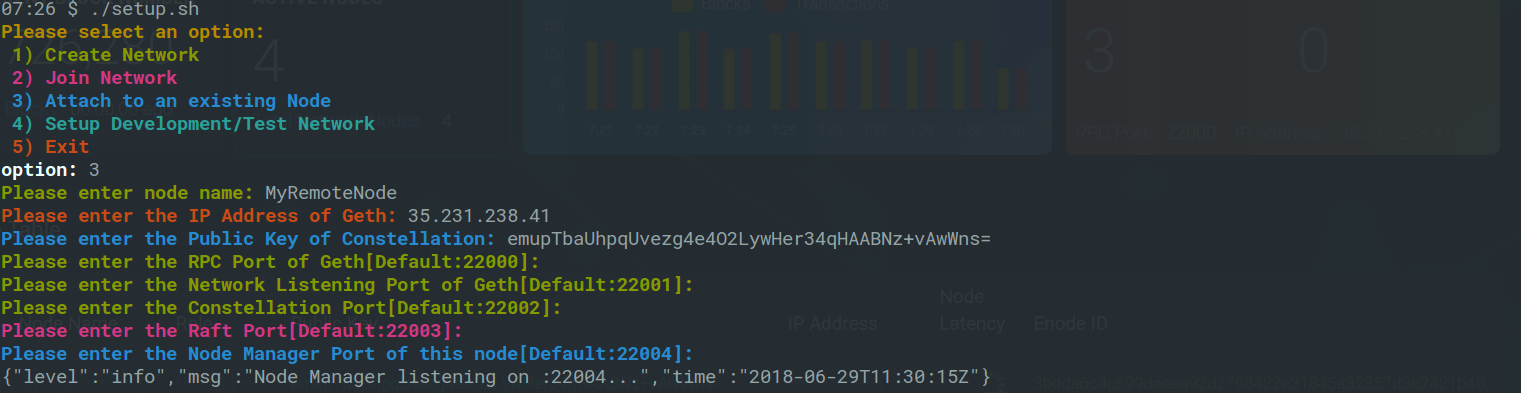
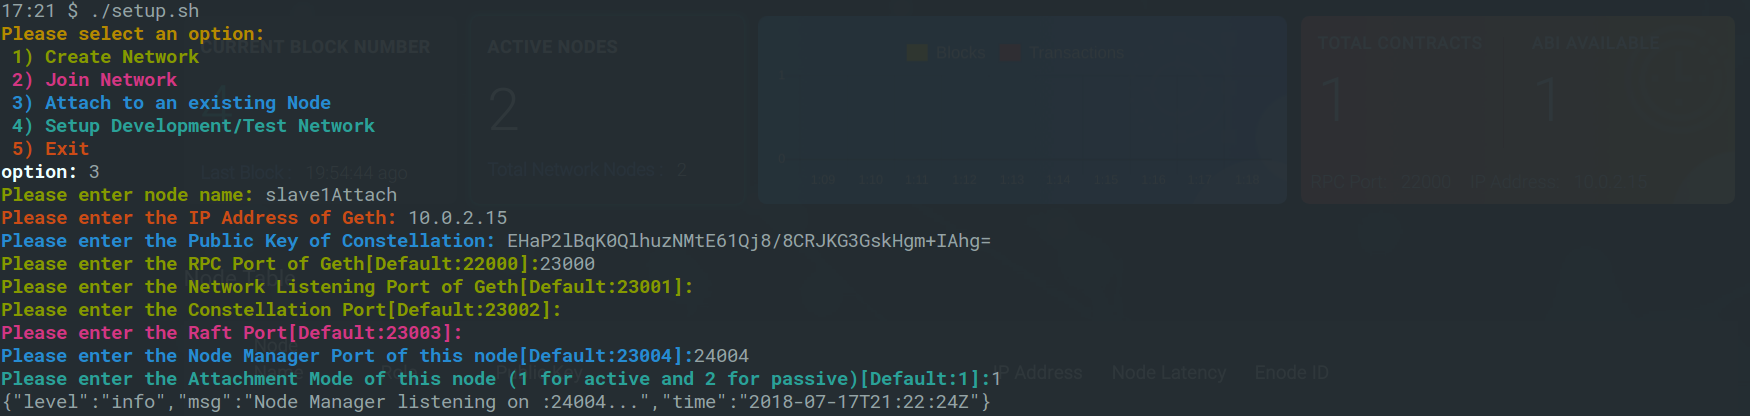
Updated to V2.3

Changed region(s): [[0.0, 0.0, 0.6489, 1.0]]

diff --git a/README.md b/README.md
@@ -1,4 +1,4 @@
-# Quorum Maker V2.2
+# Quorum Maker V2.3
 
 Synechron's Quorum Maker is a tool that allows users to spin up nodes in a Quorum network. Manually editing configuration files and creating nodes is a slow and error-prone process. Quorum Maker can create any number of nodes of various configurations dynamically with reduced user input. This provides a wizard-like interface with a series of questions to guide the user when creating nodes. Quorum Maker can create nodes to:
 
@@ -18,13 +18,13 @@ Synechron's Quorum Maker is a tool that allows users to spin up nodes in a Quoru
 
 ## Features at a glance
 
-Quorum Maker v2.2 is an upgrade on v1.0 released by Synechron in October 2017. This upgrade, and future expected upgrades, aim to support application developers in the pursuit of production readiness for the growing number of applications built on top of the Quorum platform.
+Quorum Maker v2.3 is an upgrade on v1.0 released by Synechron in October 2017. This upgrade, and future expected upgrades, aim to support application developers in the pursuit of production readiness for the growing number of applications built on top of the Quorum platform.
 
-| Features | V 1.0 | V 2.2 |
+| Features | V 1.0 | V 2.3 |
 | ------ | ------ |-----|
 | Create Network | ![Yes](img/tick.png "Available") | ![Yes](img/tick.png "Available") |
 |Join Network | ![No](img/cross.png "Not Available")  | ![Yes](img/tick.png "Available")|
-|Attach to existing Quorum Node	 	  | ![No](img/cross.png "Not Available") | ![Exp](img/exp.png "Experimental") |
+|Attach to existing Quorum Node	 	  | ![No](img/cross.png "Not Available") | ![Yes](img/tick.png "Available")|
 |Quick Setup with Docker	 	  | ![Yes](img/tick.png "Available") | ![Yes](img/tick.png "Available") |
 |Quick network with Docker Compose	 	  | ![Yes](img/tick.png "Available") | ![Yes](img/tick.png "Available") |
 |Quorum Chain Consensus	 	  | ![Yes](img/tick.png "Available") | ![No](img/cross.png "Not Available") |
@@ -38,6 +38,7 @@ Quorum Maker v2.2 is an upgrade on v1.0 released by Synechron in October 2017. T
 |Smart Contract Deployer	 	  | ![No](img/cross.png "Not Available") | ![Yes](img/tick.png "Available") |
 |Smart Contract Explorer	 	  | ![No](img/cross.png "Not Available") | ![Yes](img/tick.png "Available") |
 |Transaction Parameters View	 	  | ![No](img/cross.png "Not Available") | ![Yes](img/tick.png "Available") |
+|Auto ABI upload for Truffle Deployments | ![No](img/cross.png "Not Available") | ![Yes](img/tick.png "Available") |
 |Email Notification	 	  | ![No](img/cross.png "Not Available") | ![Yes](img/tick.png "Available") |
 |Online Logs View	 	  | ![No](img/cross.png "Not Available") | ![Yes](img/tick.png "Available") |
 |Restful API	 	  | ![No](img/cross.png "Not Available") | ![Yes](img/tick.png "Available") |
@@ -215,10 +216,32 @@ After the required docker images are downloaded, Quorum Maker will present with 
 `Please enter the Constellation Port[Default:22002]:`
 `Please enter the Raft Port[Default:22003]:`
 `Please enter the Node Manager Port of this node[Default:22004]:`
+`Please enter the Attachment Mode of this node (1 for active and 2 for passive)[Default:1]:`1
 
-Except Node Manager port, all other details are of existing node. Please make sure to use an available port for Node Manager to avoid port conflicts.
+
+> Note: Except Node Manager port, all other details are of existing node. Please make sure to use an available port for Node Manager to avoid port conflicts.
 
 ![Screenshot 13](img/screenshot13.png)
+
+### Active Attachment
+
+Active Attachment allows you to migrate your existing nodes that was not created with Quorum Maker to a fully Quorum Maker equivalent. At the core, Quorum Maker uses Network Map Contract to share the details of each participant node. Due to security and transperancy reasons, this is a public smart contract. When attaching to a node that was not created using Quorum Maker, it will deploy Network Map Contract. This is an active participation in the network. Quorum Maker can also detect an existing instance of Network Map Contract and only register the node, instead of deploying a new instance. This allows Quorum Maker to act as a native installation once all nodes have Quorum Maker attached. 
+
+### Passive Attachment
+
+If you do not wish Quorum Maker to deploy a public contract but still want to use some of the features of Quorum Maker, you can attach in **Passive** mode. Most of the features except **Node Explorer** work as expected in this mode.
+
+### Configure Log paths and Genesis
+
+You can point to the location of your existing node's Geth and Constellation log directories and Quorum Maker can make them accessible through it's UI. When you access the UI after attaching to an exisisting Quorum node, a notification icon appears on the top right corner. Click on this to open up the window to enter the location of the log directory. 
+
+> Note: Due to browser security restrictions, **File Chooser** doesn't pickup the fully qualified path of a directory. Please enter this manually.
+
+Quorum Maker attached to an existing node can even approve join requests. To enable this feature choose the **Genesis** file of this network. 
+
+After you **SUBMIT** changes, please restart Quorum Maker Node to make the changes effect. 
+
+![Screenshot 21](img/screenshot21.png)
 
 ## Quorum Maker Web UI
 
@@ -303,6 +326,16 @@ You can view both Geth and Constellation logs from the Quorum Maker UI. In any e
 1. Quorum Maker an also notify a request for join from another node. This lets node administrators not be online all the time to approve/reject a request.
 
 1. If a new node is joined, Quorum Maker notifies this to all node administrators with both Joiner and Approver details.
+
+## Auto ABI upload for Truffle Deployments
+
+Even though Smart Contracts can be deployed from Quorum Maker UI, we recommend to use specialized tools like Truffle (https://github.com/trufflesuite/truffle) for this. Quorum Maker can automatically attach the ABI files generated by Truffle to the smart contracts deployed on the node. This allows you to view the Smart Contract Functions called and the parameters without having to attach the ABIs manually. 
+
+Please follow the steps below to enable auto attaching of ABIs. 
+
+1. Quorum Maker stores smart contract inside the directory **$nodeName/node/contracts**, here $nodeName is the name of the node you choose while creating the node using Quorum Maker.
+2. Create a symbolic link to your Truffle directory inside Quorum Maker contract directory. (E.g. **$nodeName/node/contract/myTruffleOutput**)
+3. Quorum Maker will automatically detect new files getting saved by Truffle and auto attach them to the smart contracts deployed. 
 
 ## Quorum Maker Node Manager API
 
